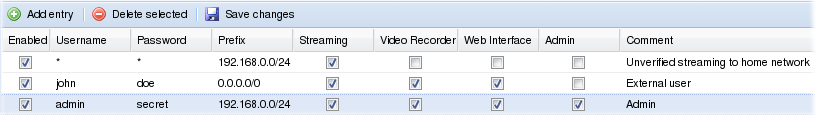
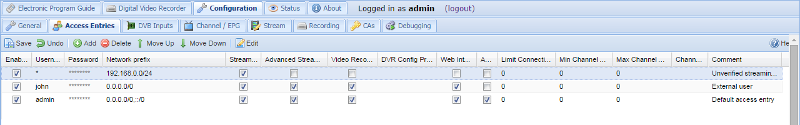
Cosmetic update help

diff --git a/docs/html/config_access.html b/docs/html/config_access.html
@@ -32,84 +32,91 @@ The access rules are listed / edited  in a grid.
 </ul>
 
 <p>
+<br>
+<hr>
+<b>Columns</b>
+<hr>
 The columns have the following functions:
+<br><br>
 
 <dl>
- <dt>Enabled
+ <dt><b>Enabled</b>
  <dd>Make the entry participate in access control. If disabled, the entry
      is inactive.
 
-  <dt>Username
+  <dt><b>Username</b>
   <dd>
   Name of user, if no username is needed for match it should contain a
   single asterisk (*).
 
-  <dt>Password
+  <dt><b>Password</b>
   <dd>
   Password to combine with user, if username is '*' (unused), the password
   should be the same.
 
-  <dt>Prefix
+  <dt><b>Network prefix</b>
   <dd>
   IPv4 prefix for matching based on source IP address.
   If set to 0.0.0.0/0 it will match everything.
 
-  <dt>Streaming
+  <dt><b>Streaming</b>
   <dd>
   Enables access to streaming function. The 'streaming' access is enough to
   make Showtime (over HTSP) work.
 
-  <dt>Advanced Streaming
+  <dt><b>Advanced Streaming</b>
   <dd>
   Enables access to advanced streaming function for HTTP - like direct
   service or whole MPEG-TS stream (mux)..
 
-  <dt>Video Recorder
+  <dt><b>Video Recorder</b>
   <dd>
   Enables access to all video recording functions. This also include administration of the auto recordings.
 
-  <dt>DVR Config Profile
+  <dt><b>DVR Config Profile</b>
   <dd>
   If set, the user will only be able to use the DVR config profile
   equal to this value.
   Note that this field is unset when the DVR Config Profile is removed.
 
-  <dt>Web interface
+  <dt><b>Web interface</b>
   <dd>
   Required for web user interface access. Also gives access to the EPG.
 
-  <dt>Admin
+  <dt><b>Admin</b>
   <dd>
   Enables access to the Configuration tab.
   
-  <dt>Limit Connections
+  <dt><b>Limit Connections</b>
   <dd>
   If nonzero, the user will be limited to this amount of streaming
   connection at a time.
 
-  <dt>Min Channel Num
+  <dt><b>Min Channel Num</b>
   <dd>
   If nonzero, the user will only be able to access channels with
   a channel number equal or greater to this value.
 
-  <dt>Max Channel Num
+  <dt><b>Max Channel Num</b>
   <dd>
   If nonzero, the user will only be able to access channels with
   a channel number equal or lower to this value.
 
-  <dt>Channel Tag
+  <dt><b>Channel Tag</b>
   <dd>
   If set, the user will only be able to access channels containing
   this channel tag.
   Note that this field is unset when the channel tag is removed.
 
-  <dt>Comment
+  <dt><b>Comment</b>
   <dd>
   Allows the administrator to set a comment only visible in this editor.
   It does not serve any active purpose.
  </dl>
 
 <p>
+<br>
+<hr>
 Let's also take a look at an example:
 <p>
 <img src="docresources/accessconfigexample.png">

diff --git a/src/webui/static/app/dvr.js b/src/webui/static/app/dvr.js
@@ -189,7 +189,7 @@ tvheadend.dvr_upcoming = function(panel, index) {
         selected: selected,
         beforeedit: beforeedit,
         help: function() {
-            new tvheadend.help('DVR-Upcoming/Current Recordings', 'dvrupcoming.html');
+            new tvheadend.help('DVR-Upcoming/Current Recordings', 'config_dvrupcoming.html');
         },
     });
 
@@ -271,7 +271,7 @@ tvheadend.dvr_finished = function(panel, index) {
         tbar: [downloadButton],
         selected: selected,
         help: function() {
-            new tvheadend.help('DVR-Finished Recordings', 'dvrfinished.html');
+            new tvheadend.help('DVR-Finished Recordings', 'config_dvrfinished.html');
         },
     });
 
@@ -354,7 +354,7 @@ tvheadend.dvr_failed = function(panel, index) {
         tbar: [downloadButton],
         selected: selected,
         help: function() {
-            new tvheadend.help('DVR-Failed Recordings', 'dvrfailed.html');
+            new tvheadend.help('DVR-Failed Recordings', 'config_dvrfailed.html');
         },
     });
 

diff --git a/docs/html/config_dvrfailed.html b/docs/html/config_dvrfailed.html
@@ -5,8 +5,12 @@ This tab show your all failed recordings.
 <img src="docresources/failedrecordings1.png">
 </p>
 <p>
-<u>Buttons have the following functions:</u>
-
+<br>
+<hr>
+<b>Buttons</b>
+<hr>
+Buttons have the following functions:
+<br><br>
 <dl>
   <dt><b>Delete</b>
   <dd>
@@ -15,15 +19,14 @@ This tab show your all failed recordings.
   <dt><b>Download</b>
   <dd>
   If clicked download selected failed recordings you can downloaded recordings to your disk. After clicked you ask to select path.
-<p>
 </dl>
-
-<br>
-<br>
 <p>
-<u>The columns have the following functions:</u>
-
-
+<br>
+<hr>
+<b>Columns</b>
+<hr>
+The columns have the following functions:
+<br><br>
  <dl>
   <dt><b>Details</b>
   <dd>

diff --git a/docs/html/config_dvrfinished.html b/docs/html/config_dvrfinished.html
@@ -5,8 +5,12 @@ This tab show your all finished recordings.
 <img src="docresources/finishedrecordings1.png">
 </p>
 <p>
-<u>Buttons have the following functions:</u>
-
+<br>
+<hr>
+<b>Buttons</b>
+<hr>
+Buttons have the following functions:
+<br><br>
 <dl>
   <dt><b>Delete</b>
   <dd>
@@ -16,12 +20,13 @@ This tab show your all finished recordings.
   <dd>
   If clicked download selected finished recordings you can downloaded recordings to your disk. After clicked you ask to select path.
 </dl>
-<br>
-<br>
 <p>
-<u>The columns have the following functions:</u>
-
-
+<br>
+<hr>
+<b>Columns</b>
+<hr>
+The columns have the following functions:
+<br><br>
  <dl>
   <dt><b>Details</b>
   <dd>

diff --git a/docs/html/config_dvrupcoming.html b/docs/html/config_dvrupcoming.html
@@ -5,21 +5,24 @@ This tab show your all upcoming/current recordings.
 <img src="docresources/upcomingrecordings1.png">
 </p>
 <p>
-<u>Buttons have the following functions:</u>
-
+<br>
+<hr>
+<b>Buttons</b>
+<hr>
+Buttons have the following functions:
+<br><br>
 <dl>
   <dt><b>Delete</b>
   <dd>
   If clicked delete selected upcoming/current recordings you delete recordings. Before deleted show message: Do you really want to delete the selection ? Answer Yes or No.
-<p>
 </dl>
-
-<br>
-<br>
 <p>
-<u>The columns have the following functions:</u>
-
-
+<br>
+<hr>
+<b>Columns</b>
+<hr>
+The columns have the following functions:
+<br><br>
  <dl>
   <dt><b>Details</b>
   <dd>
